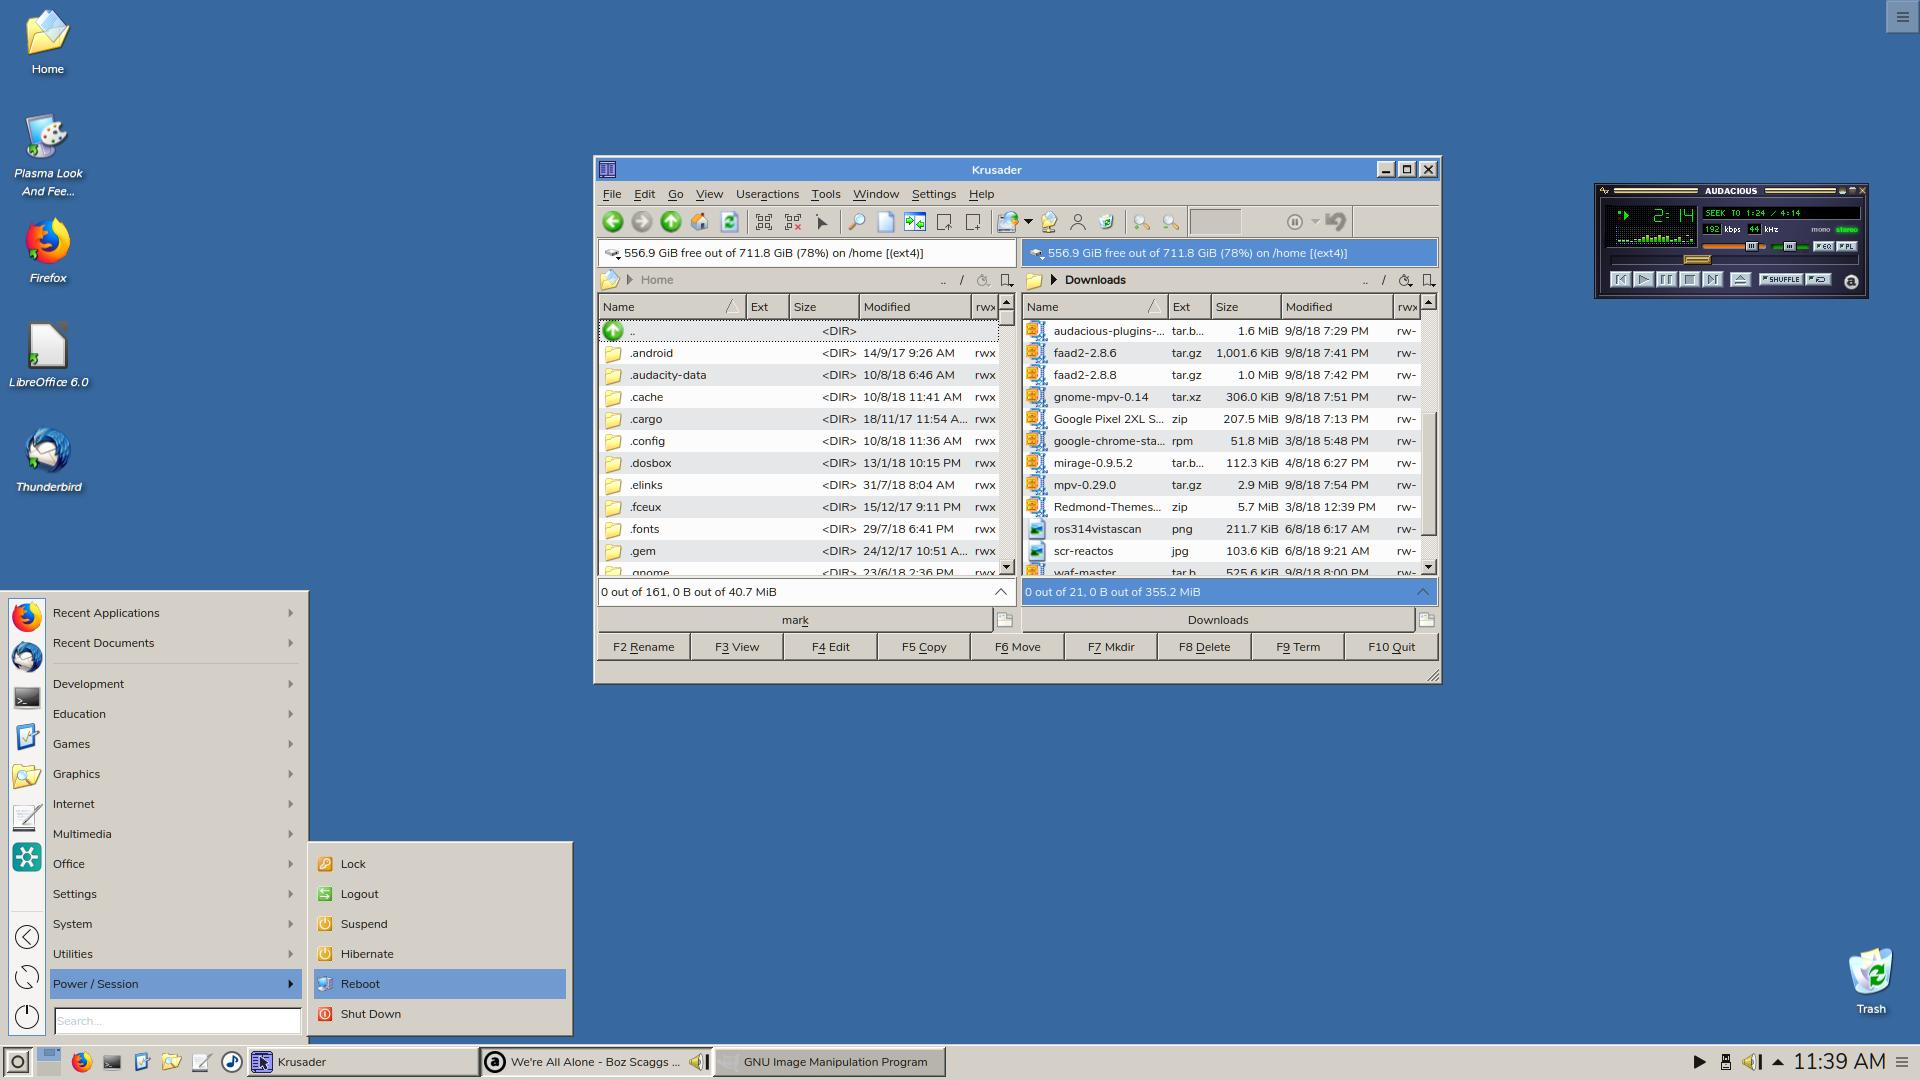
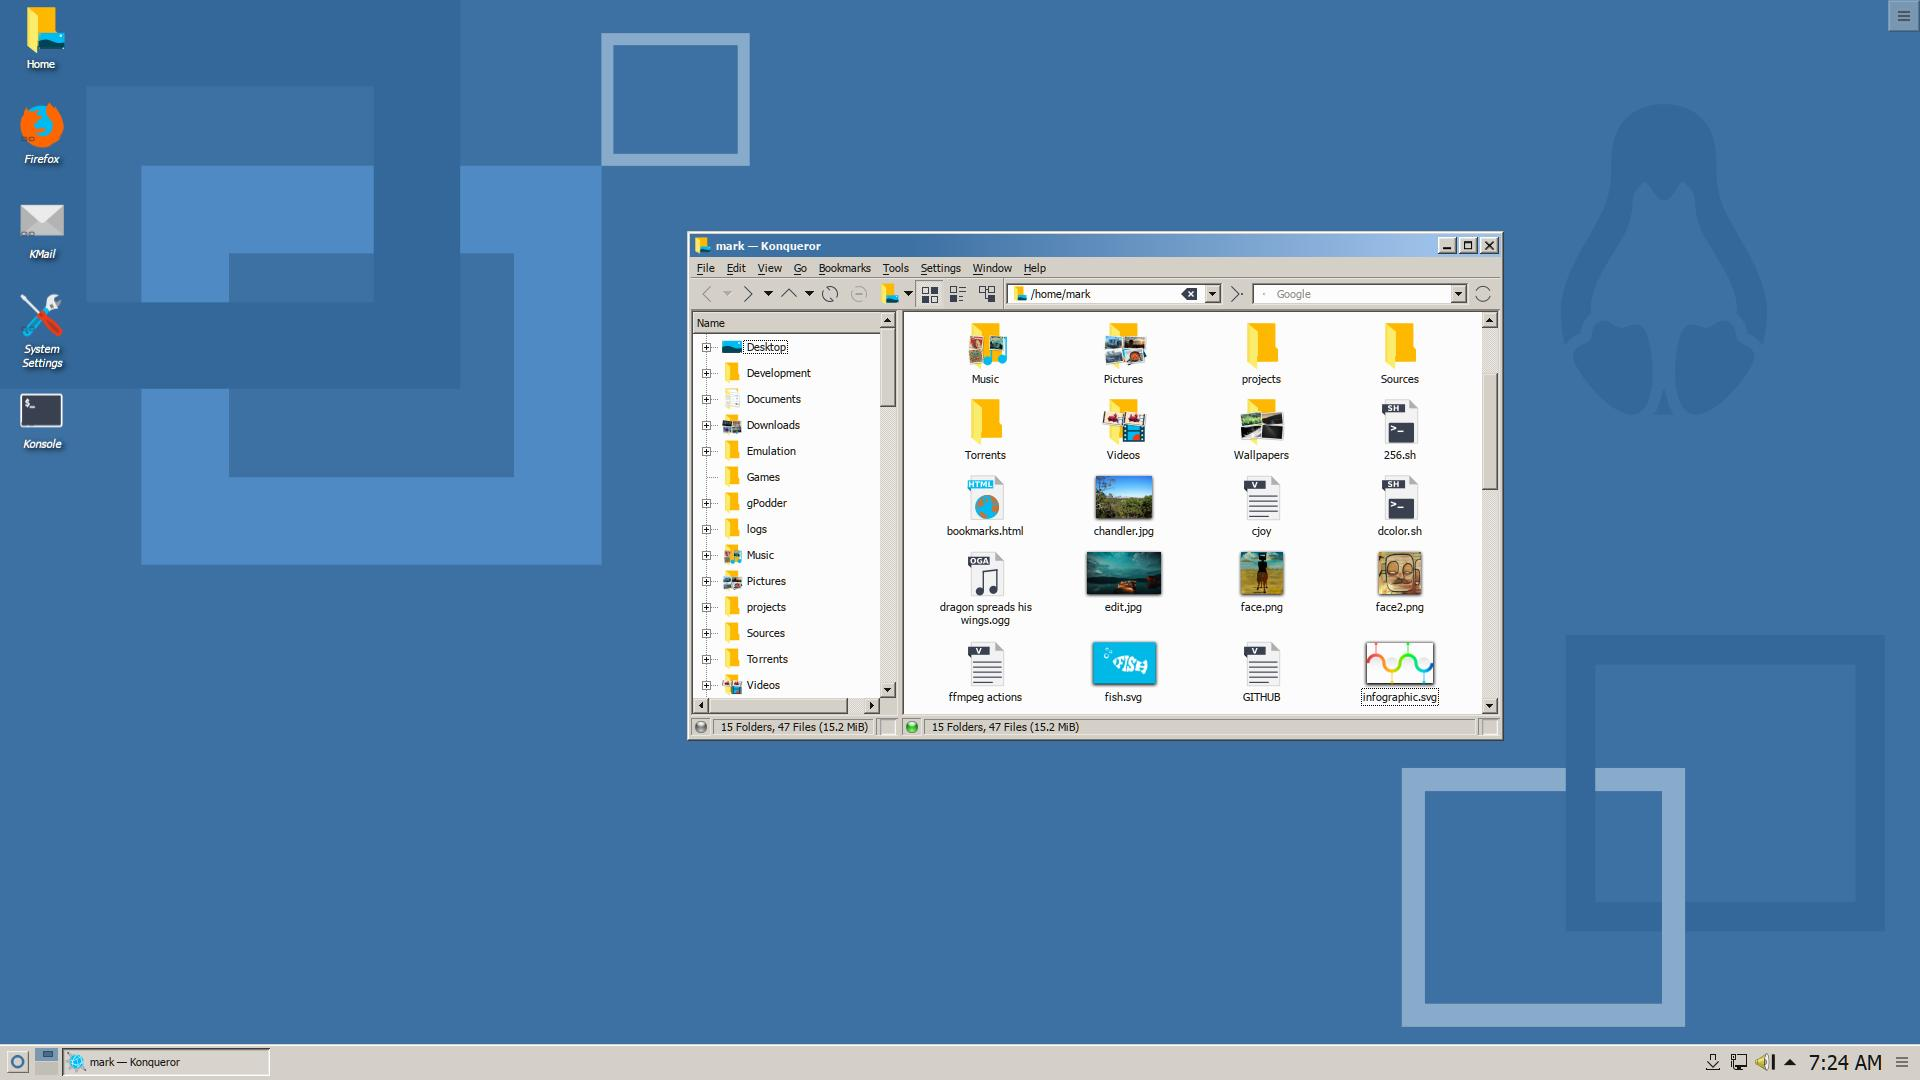
new look-and-feel

diff --git a/look-and-feel/Reactionary/contents/layouts/org.kde.plasma.desktop-layout.js b/look-and-feel/Reactionary/contents/layouts/org.kde.plasma.desktop-layout.js
@@ -10,11 +10,11 @@ var layout = {
                     "formfactor": "0",
                     "immutability": "1",
                     "lastScreen": "0",
-                    "wallpaperplugin": "org.kde.color"
+                    "wallpaperplugin": "org.kde.image"
                 },
                 "/ConfigDialog": {
-                    "DialogHeight": "540",
-                    "DialogWidth": "720"
+                    "DialogHeight": "521",
+                    "DialogWidth": "810"
                 },
                 "/Configuration": {
                     "PreloadWeight": "0"
@@ -22,18 +22,22 @@ var layout = {
                 "/General": {
                     "arrangement": "1",
                     "iconSize": "3",
-                    "positions": "20,10,desktop:/org.kde.plasma.lookandfeelexplorer.desktop,0,1,desktop:/Home.desktop,0,0,desktop:/libreoffice6.0-startcenter.desktop,0,3,desktop:/firefox.desktop,0,2,desktop:/trash.desktop,19,9,desktop:/thunderbird.desktop,0,4",
+                    "positions": "1,11,desktop:/org.kde.konsole.desktop,0,4,desktop:/firefox.desktop,0,1,desktop:/Home.desktop,0,0,desktop:/systemsettings.desktop,0,3,desktop:/org.kde.kmail2.desktop,0,2",
                     "sortMode": "-1"
                 },
                 "/Wallpaper/org.kde.color/General": {
-                    "Color": "55,104,160"
+                    "Color": "59,110,165"
                 },
                 "/Wallpaper/org.kde.image/General": {
                     "FillMode": "2",
-                    "Image": "file:///home/mark/Wallpapers/23.jpg"
+                    "Image": "file:///home/mark/Development/Reactionary/Reactionary.svg"
+                },
+                "/Wallpaper/org.kde.potd/General": {
+                    "FillMode": "2",
+                    "Provider": "wcpotd"
                 }
             },
-            "wallpaperPlugin": "org.kde.color"
+            "wallpaperPlugin": "org.kde.image"
         }
     ],
     "panels": [
@@ -55,7 +59,7 @@ var layout = {
                             "global": "Alt+F1"
                         }
                     },
-                    "plugin": "org.kde.plasma.kicker"
+                    "plugin": "org.kde.plasma.kickoff"
                 },
                 {
                     "config": {
@@ -81,7 +85,6 @@ var layout = {
                             "DialogWidth": "720"
                         },
                         "/Configuration/General": {
-                            "launchers": "applications:firefox.desktop,applications:org.kde.konsole.desktop,applications:systemsettings.desktop,applications:org.kde.dolphin.desktop,applications:org.kde.kate.desktop,applications:cantata.desktop",
                             "onlyGroupWhenFull": "false",
                             "sortingStrategy": "0"
                         }
@@ -94,7 +97,7 @@ var layout = {
                             "immutability": "1"
                         },
                         "/Configuration": {
-                            "PreloadWeight": "70"
+                            "PreloadWeight": "100"
                         }
                     },
                     "plugin": "org.kde.plasma.systemtray"
@@ -105,10 +108,11 @@ var layout = {
                             "immutability": "1"
                         },
                         "/Configuration": {
-                            "PreloadWeight": "0"
+                            "PreloadWeight": "10"
                         },
                         "/Configuration/Appearance": {
-                            "enabledCalendarPlugins": "/opt/kf5/lib/plugins/plasmacalendarplugins/holidaysevents.so"
+                            "enabledCalendarPlugins": "/opt/kf5/lib/plugins/plasmacalendarplugins/holidaysevents.so",
+                            "selectedTimeZones": "Europe/London,Local"
                         },
                         "/Configuration/ConfigDialog": {
                             "DialogHeight": "540",
@@ -126,18 +130,18 @@ var layout = {
                     "wallpaperplugin": "org.kde.image"
                 },
                 "/ConfigDialog": {
-                    "DialogHeight": "82",
+                    "DialogHeight": "76",
                     "DialogWidth": "1920"
                 },
                 "/Configuration": {
                     "PreloadWeight": "0"
                 }
             },
-            "height": 2,
+            "height": 2.5714285714285716,
             "hiding": "normal",
             "location": "bottom",
-            "maximumLength": 106.66666666666667,
-            "minimumLength": 106.66666666666667,
+            "maximumLength": 137.14285714285714,
+            "minimumLength": 137.14285714285714,
             "offset": 0
         }
     ],
